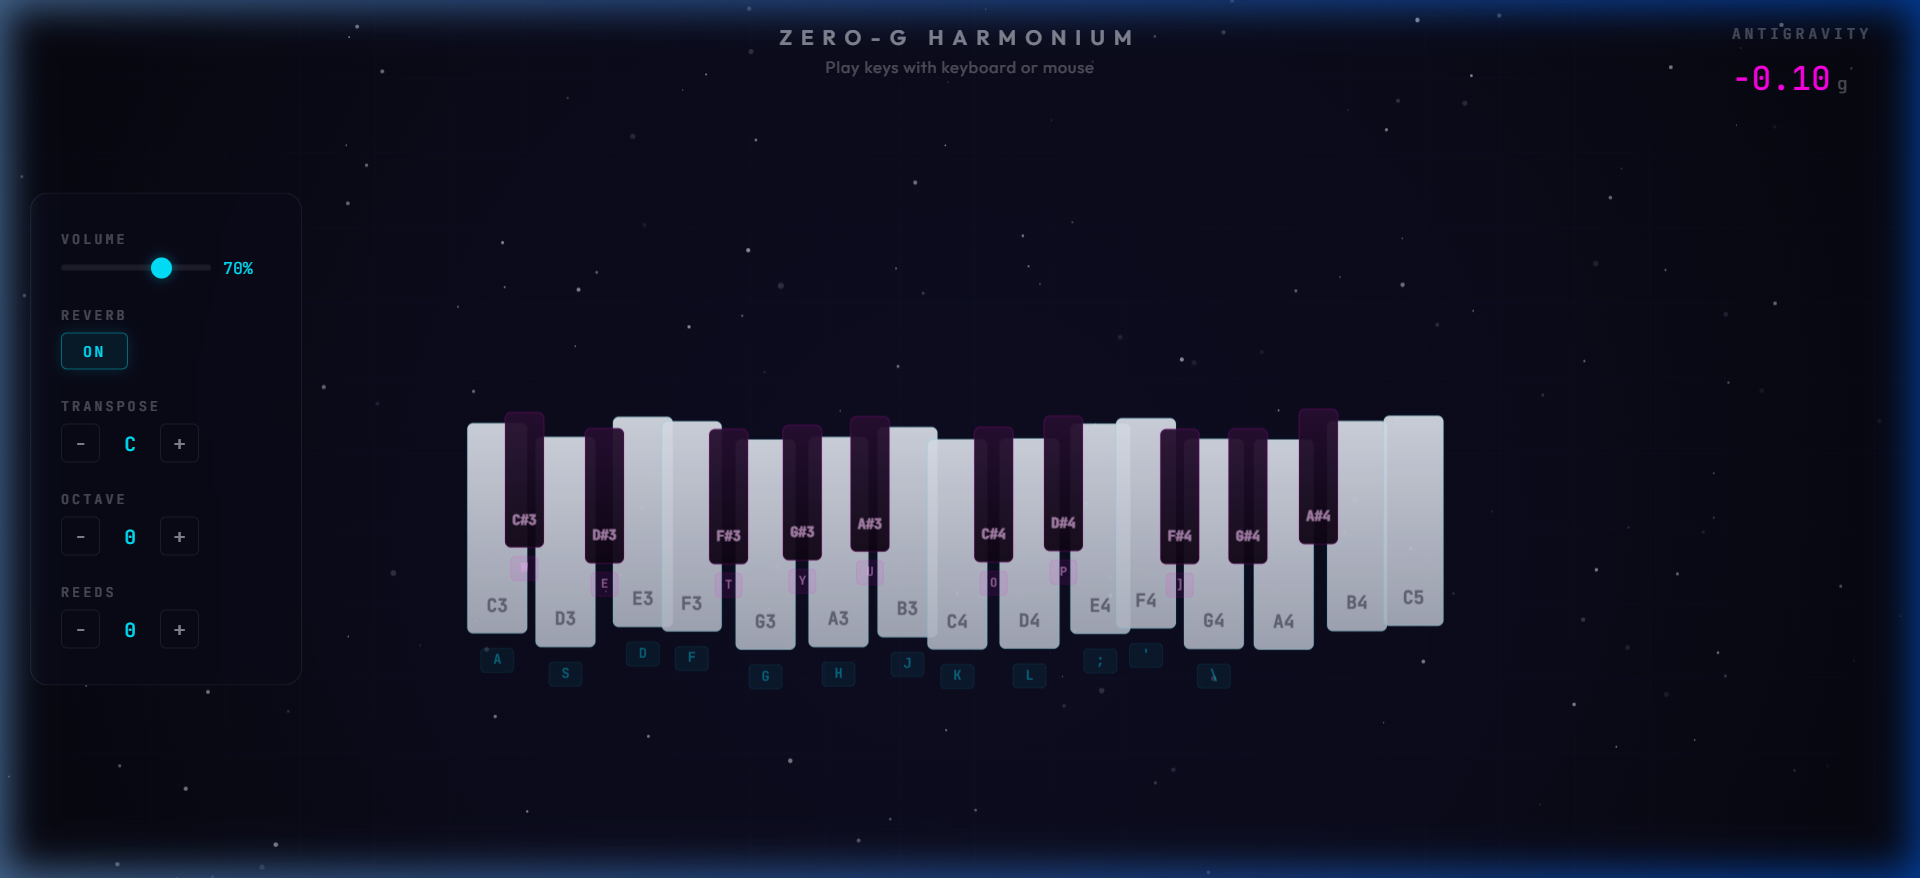
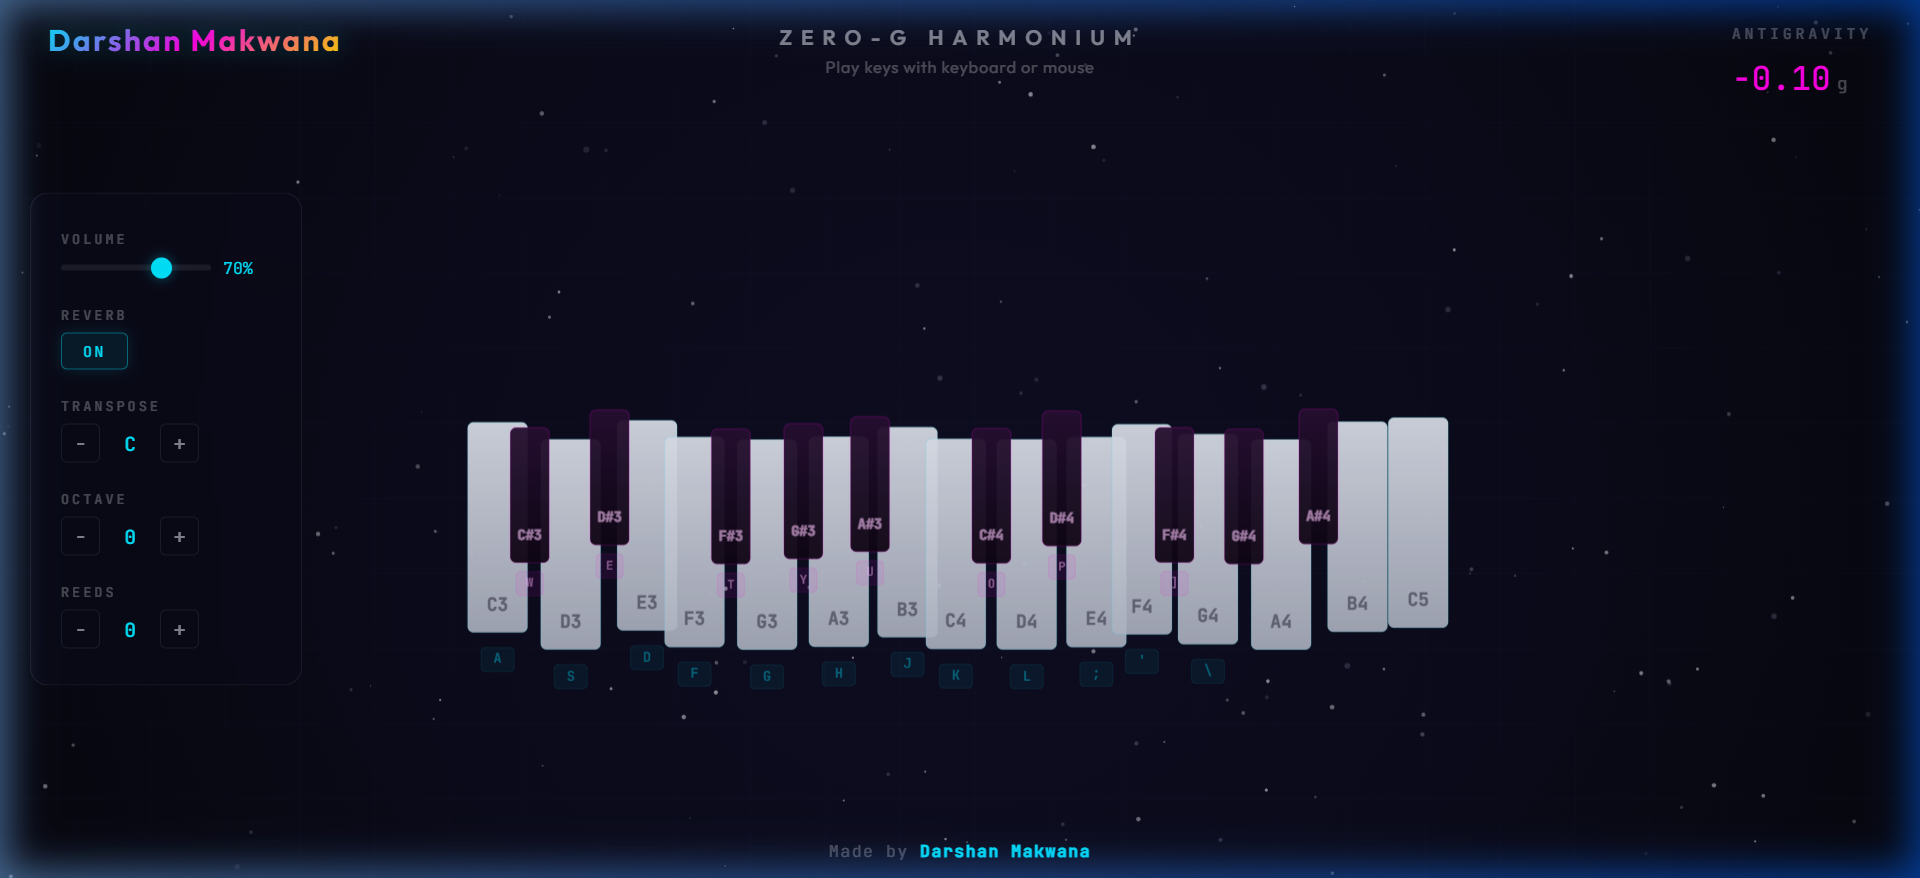
feat: add Darshan Makwana branding in header and footer with gradient text styling

diff --git a/src/style.css b/src/style.css
@@ -78,6 +78,26 @@ html, body {
   pointer-events: auto;
 }
 
+/* Author name — left side of header */
+#hud-left-name {
+  position: absolute;
+  left: 32px;
+  top: 14px;
+}
+
+.author-name {
+  font-family: var(--font-main);
+  font-size: 20px;
+  font-weight: 700;
+  letter-spacing: 1.5px;
+  background: linear-gradient(135deg, var(--accent-cyan) 0%, var(--accent-magenta) 50%, var(--accent-gold) 100%);
+  -webkit-background-clip: text;
+  -webkit-text-fill-color: transparent;
+  background-clip: text;
+  filter: drop-shadow(0 0 8px rgba(0, 229, 255, 0.3));
+  pointer-events: auto;
+}
+
 .hud-label {
   font-family: var(--font-mono);
   font-size: 10px;
@@ -282,45 +302,28 @@ html, body {
   text-align: center;
 }
 
-/* Key hints floating at bottom */
-#key-hints {
+/* ---- Footer ---- */
+#footer {
   position: fixed;
-  bottom: 24px;
-  left: 50%;
-  transform: translateX(-50%);
-  display: flex;
-  gap: 6px;
+  bottom: 0;
+  left: 0;
+  right: 0;
+  text-align: center;
+  padding: 10px 0;
   pointer-events: none;
   z-index: 10;
 }
 
-.key-hint {
+#footer span {
   font-family: var(--font-mono);
-  font-size: 10px;
-  padding: 3px 8px;
-  background: var(--glass-bg);
-  border: 1px solid var(--glass-border);
-  border-radius: 4px;
+  font-size: 11px;
+  letter-spacing: 1px;
   color: var(--text-dim);
-  transition: all 0.15s ease;
-  backdrop-filter: blur(8px);
 }
 
-.key-hint.active {
+#footer strong {
+  font-weight: 600;
   color: var(--accent-cyan);
-  border-color: rgba(0, 229, 255, 0.3);
-  box-shadow: var(--glow-cyan);
-}
-
-.key-hint.sharp {
-  color: var(--text-dim);
-  background: rgba(255, 0, 229, 0.08);
-}
-
-.key-hint.sharp.active {
-  color: var(--accent-magenta);
-  border-color: rgba(255, 0, 229, 0.3);
-  box-shadow: var(--glow-magenta);
 }
 
 /* ---- Start Overlay ---- */
@@ -428,5 +431,8 @@ html, body {
   }
   .setting-slider {
     width: 55px;
+  }
+  .author-name {
+    font-size: 14px;
   }
 }

diff --git a/index.html b/index.html
@@ -16,6 +16,9 @@
 
       <!-- ── HUD Top Bar ── -->
       <div id="hud">
+        <div id="hud-left-name">
+          <span class="author-name">Darshan Makwana</span>
+        </div>
         <div id="hud-center">
           <h1>ZERO-G HARMONIUM</h1>
           <p class="hud-subtitle">Play keys with keyboard or mouse</p>
@@ -75,6 +78,11 @@
             <button id="reeds-up" class="stepper-btn">+</button>
           </div>
         </div>
+      </div>
+
+      <!-- ── Footer ── -->
+      <div id="footer">
+        <span>Made by <strong>Darshan Makwana</strong></span>
       </div>
 
       <!-- ── Start Overlay ── -->
